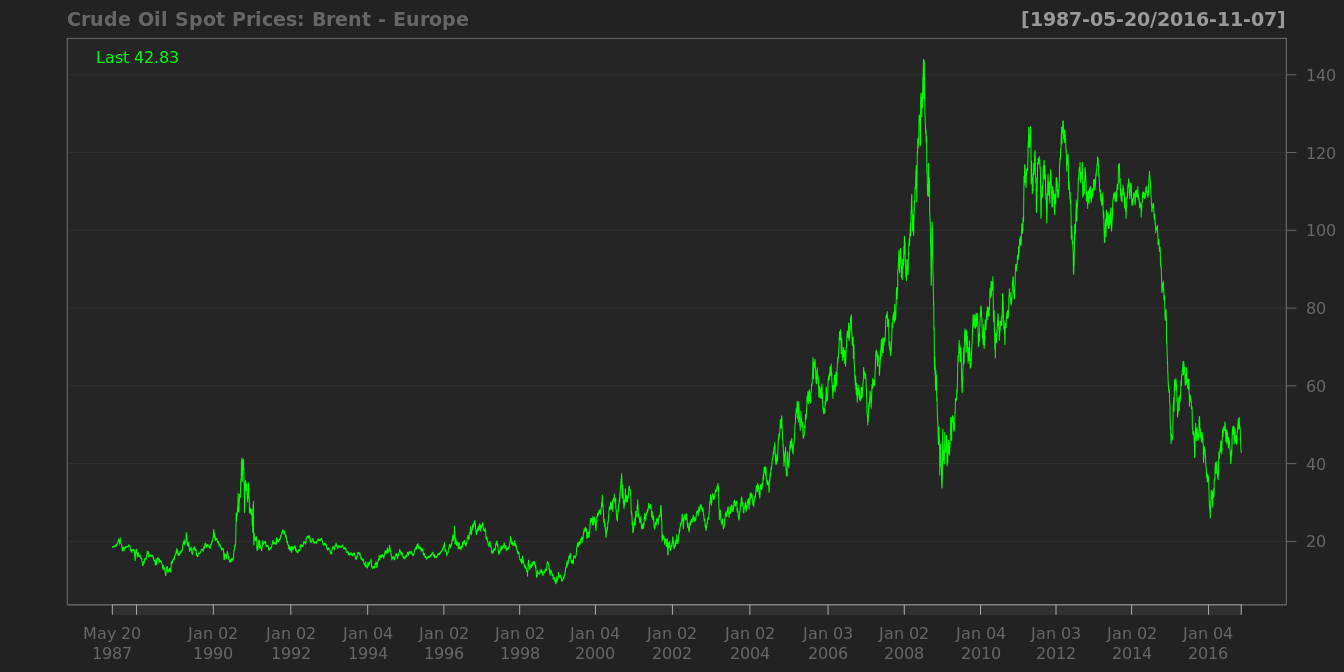
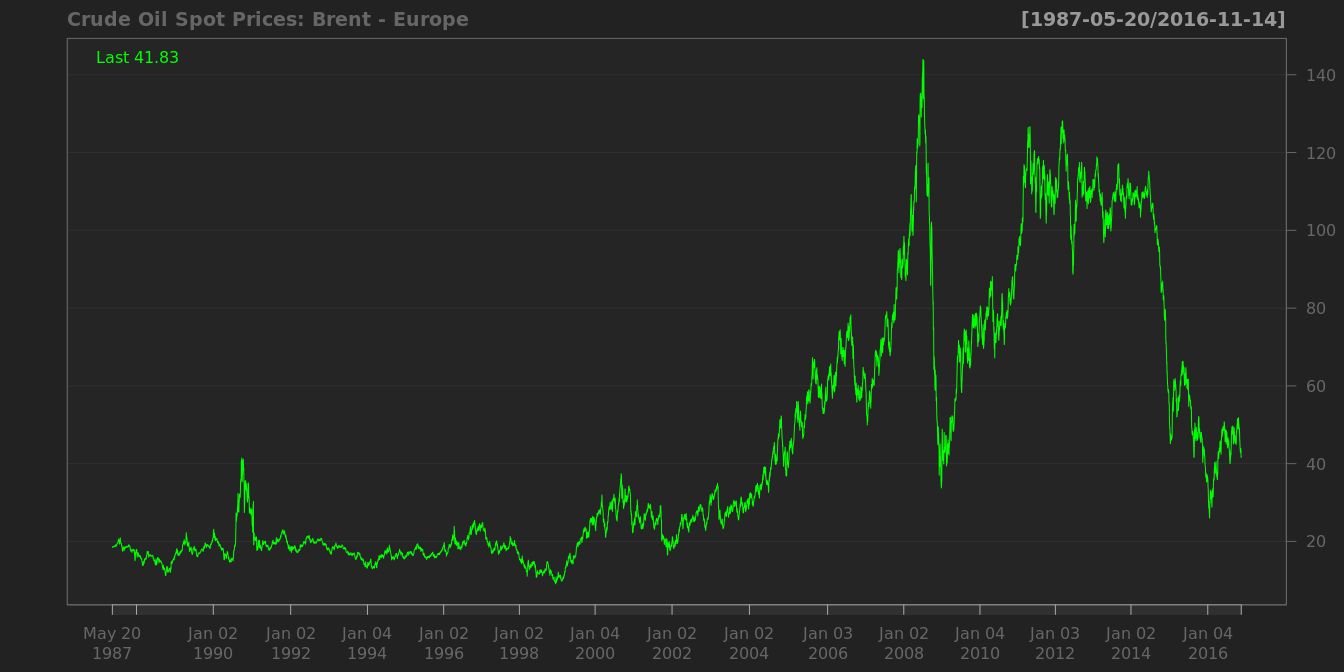
better

diff --git a/中央银行报告.md b/中央银行报告.md
@@ -90,12 +90,12 @@ Futures prices have also dropped significantly and indicate that market particip
 <img src="中央银行报告_files/figure-html/oil price-1.png" style="display: block; margin: auto;" /><img src="中央银行报告_files/figure-html/oil price-2.png" style="display: block; margin: auto;" />
 
 ```
-## [1] 51.83
+## [1] 51.59
 ```
 
 ```
 ##            DCOILBRENTEU
-## 2016-11-07        42.83
+## 2016-11-14        41.83
 ```
 
 <img src="中央银行报告_files/figure-html/oil price-3.png" style="display: block; margin: auto;" />
@@ -300,9 +300,9 @@ Long-Term Government Bond Yields
 
 ```
 ##                                                                   
-## "Min.   :-1.660000  " "1st Qu.:-0.721000  " "Median : 0.070000  " 
+## "Min.   :-1.659000  " "1st Qu.:-0.721000  " "Median : 0.068000  " 
 ##                                                                   
-## "Mean   :-0.000003  " "3rd Qu.: 0.628000  " "Max.   : 5.546000  "
+## "Mean   : 0.000021  " "3rd Qu.: 0.631000  " "Max.   : 5.539000  "
 ```
 
 <img src="中央银行报告_files/figure-html/unnamed-chunk-13-1.png" style="display: block; margin: auto;" />
@@ -341,7 +341,7 @@ in the short run, there is a strong negative correlation between volatility inde
 ##                                                          
 ## "Min.   :0.1900  " "1st Qu.:0.6000  " "Median :0.7000  " 
 ##                                                          
-## "Mean   :0.8333  " "3rd Qu.:0.8500  " "Max.   :6.0700  " 
+## "Mean   :0.8332  " "3rd Qu.:0.8500  " "Max.   :6.0700  " 
 ##                    
 ##      "NA's   :5  "
 ```
@@ -353,7 +353,7 @@ in the short run, there is a strong negative correlation between volatility inde
 
 ```
 ##                                                                         
-## "Min.   : 4.14  " "1st Qu.: 7.71  " "Median :10.40  " "Mean   :11.84  " 
+## "Min.   : 4.14  " "1st Qu.: 7.71  " "Median :10.41  " "Mean   :11.84  " 
 ##                                                       
 ## "3rd Qu.:13.81  " "Max.   :44.29  "     "NA's   :5  "
 ```
@@ -377,9 +377,9 @@ of the top 20 firms,15 belongs to two industries: consumer staples and healthcar
 
 ```
 ##                                                          
-## "Min.   : 676.5  " "1st Qu.:1224.9  " "Median :1419.6  " 
+## "Min.   : 676.5  " "1st Qu.:1224.9  " "Median :1420.1  " 
 ##                                                          
-## "Mean   :1506.2  " "3rd Qu.:1878.4  " "Max.   :2190.2  " 
+## "Mean   :1506.5  " "3rd Qu.:1878.6  " "Max.   :2190.2  " 
 ##                    
 ##     "NA's   :92  "
 ```
@@ -392,9 +392,9 @@ of the top 20 firms,15 belongs to two industries: consumer staples and healthcar
 
 ```
 ##                                                                         
-## "Min.   : 6547  " "1st Qu.:11411  " "Median :13024  " "Mean   :13532  " 
+## "Min.   : 6547  " "1st Qu.:11411  " "Median :13027  " "Mean   :13534  " 
 ##                                                       
-## "3rd Qu.:16390  " "Max.   :18923  "    "NA's   :92  "
+## "3rd Qu.:16395  " "Max.   :18923  "    "NA's   :92  "
 ```
 
 <img src="中央银行报告_files/figure-html/dj-1.png" style="display: block; margin: auto;" />

diff --git a/市场观测指标.md b/市场观测指标.md
@@ -11,9 +11,9 @@ qiufei
 
 ```
 ##                                                                   
-## "Min.   :-1.660000  " "1st Qu.:-0.721000  " "Median : 0.070000  " 
+## "Min.   :-1.659000  " "1st Qu.:-0.721000  " "Median : 0.068000  " 
 ##                                                                   
-## "Mean   :-0.000003  " "3rd Qu.: 0.628000  " "Max.   : 5.546000  "
+## "Mean   : 0.000021  " "3rd Qu.: 0.631000  " "Max.   : 5.539000  "
 ```
 
 <img src="市场观测指标_files/figure-html/unnamed-chunk-1-1.png" style="display: block; margin: auto;" />
@@ -52,7 +52,7 @@ in the short run, there is a strong negative correlation between volatility inde
 ##                                                          
 ## "Min.   :0.1900  " "1st Qu.:0.6000  " "Median :0.7000  " 
 ##                                                          
-## "Mean   :0.8333  " "3rd Qu.:0.8500  " "Max.   :6.0700  " 
+## "Mean   :0.8332  " "3rd Qu.:0.8500  " "Max.   :6.0700  " 
 ##                    
 ##      "NA's   :5  "
 ```
@@ -64,7 +64,7 @@ in the short run, there is a strong negative correlation between volatility inde
 
 ```
 ##                                                                         
-## "Min.   : 4.14  " "1st Qu.: 7.71  " "Median :10.40  " "Mean   :11.84  " 
+## "Min.   : 4.14  " "1st Qu.: 7.71  " "Median :10.41  " "Mean   :11.84  " 
 ##                                                       
 ## "3rd Qu.:13.81  " "Max.   :44.29  "     "NA's   :5  "
 ```
@@ -152,9 +152,9 @@ of the top 20 firms,15 belongs to two industries: consumer staples and healthcar
 
 ```
 ##                                                          
-## "Min.   : 676.5  " "1st Qu.:1224.9  " "Median :1419.6  " 
+## "Min.   : 676.5  " "1st Qu.:1224.9  " "Median :1420.1  " 
 ##                                                          
-## "Mean   :1506.2  " "3rd Qu.:1878.4  " "Max.   :2190.2  " 
+## "Mean   :1506.5  " "3rd Qu.:1878.6  " "Max.   :2190.2  " 
 ##                    
 ##     "NA's   :92  "
 ```
@@ -167,9 +167,9 @@ of the top 20 firms,15 belongs to two industries: consumer staples and healthcar
 
 ```
 ##                                                                         
-## "Min.   : 6547  " "1st Qu.:11411  " "Median :13024  " "Mean   :13532  " 
+## "Min.   : 6547  " "1st Qu.:11411  " "Median :13027  " "Mean   :13534  " 
 ##                                                       
-## "3rd Qu.:16390  " "Max.   :18923  "    "NA's   :92  "
+## "3rd Qu.:16395  " "Max.   :18923  "    "NA's   :92  "
 ```
 
 <img src="市场观测指标_files/figure-html/dj-1.png" style="display: block; margin: auto;" />

diff --git a/corporation.md b/corporation.md
@@ -22,7 +22,7 @@ qiufei
 ## 2016-10-28 12.205 12.205
 ## 2016-11-04 12.205 12.205
 ## 2016-11-11 12.205 12.205
-## 2016-11-16 12.205 12.205
+## 2016-11-17 12.205 12.205
 ```
 
 # haolike
@@ -40,7 +40,7 @@ qiufei
 ## 2016-10-28 34.03 35.16
 ## 2016-11-04 33.89 34.46
 ## 2016-11-11 32.80 34.13
-## 2016-11-16 33.47 34.06
+## 2016-11-17 33.47 34.06
 ```
 
 
